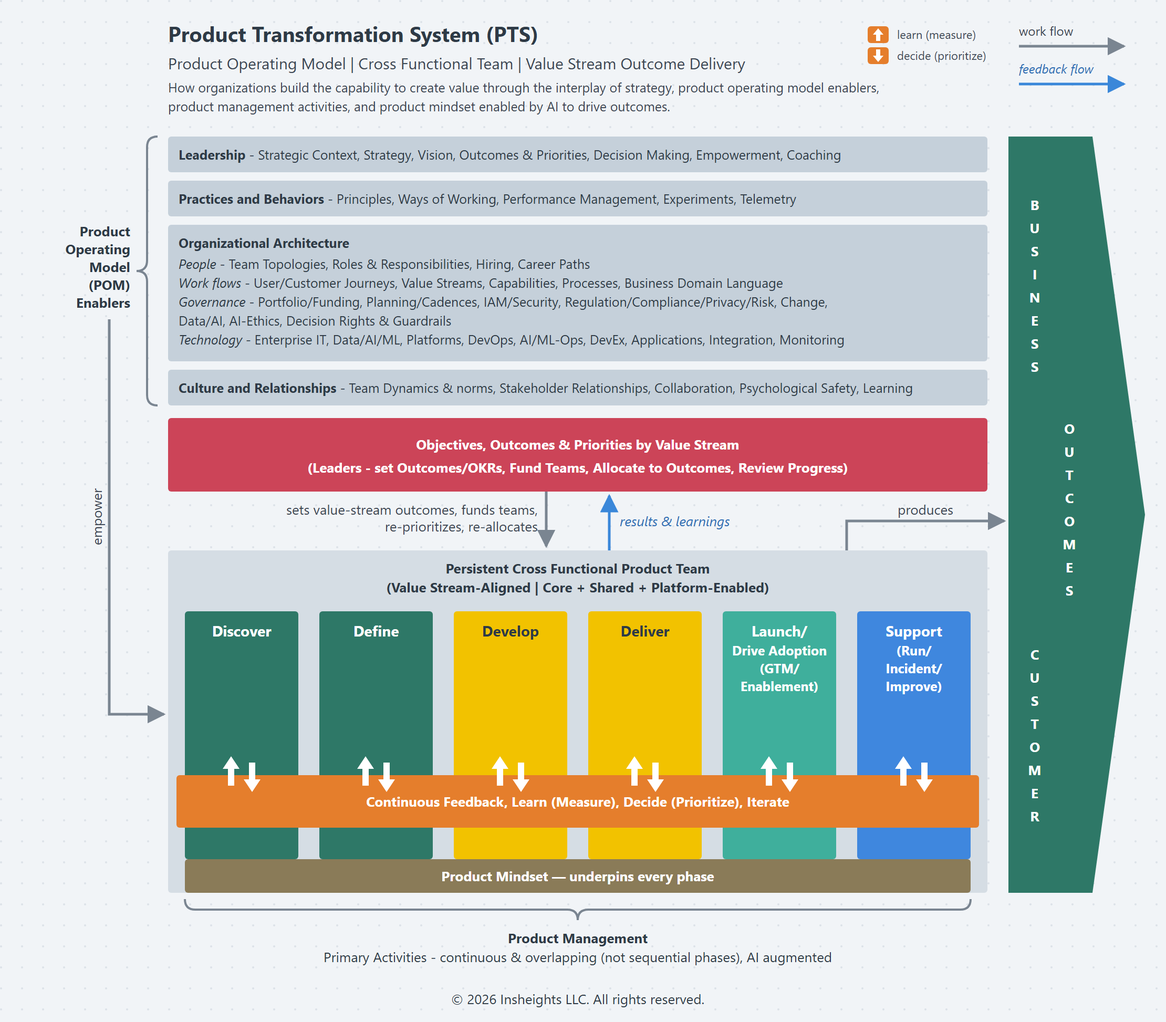
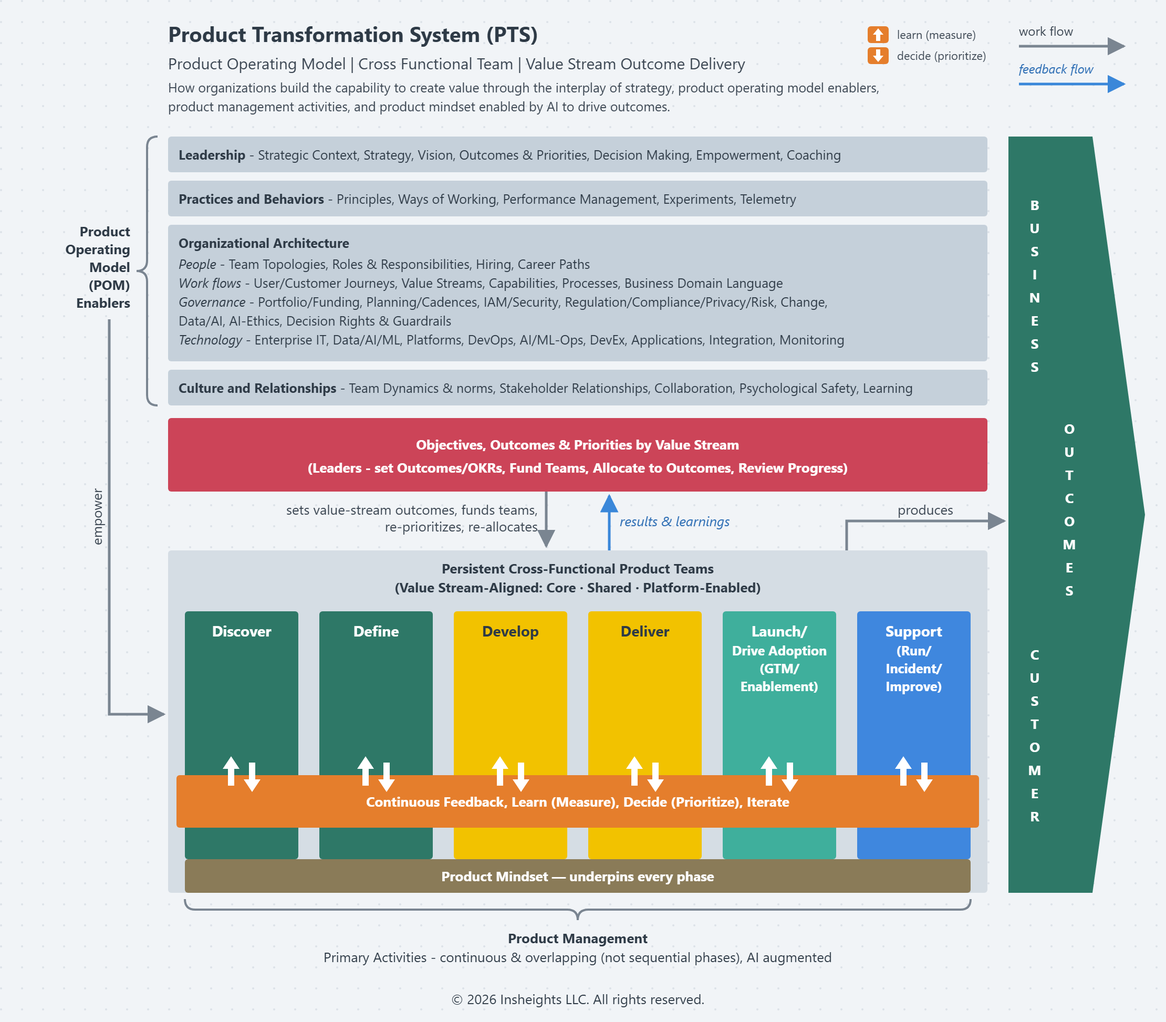
Redefine value stream, value stage, capability and process (FW-Q5)
A value stream was defined as "the pre-existing business workflows and
capabilities", which merged three different elements and left OSM no
way to call for a value stream the organization does not have yet.

- Glossary: new definitions of Value Stream, Value Stage, Capability and
  Process; new entries for the capability map, the value-stream
  charter, the Core, Shared and Platform-Enabled teams, and owned and
  consumed capabilities. Value propositions are made to a stakeholder.
- OSM: holds the value-stream inventory and capability map; Step 4 may
  create or reshape a value stream through a charter, and decides
  whether missing capabilities are built, bought or partner-sourced;
  Step 6 decides changes to the map.
- PTS: builds chartered streams; Step 3 defines the three team types
  and records owned and consumed capabilities on the map.
- CVDM: a stage may serve several journey steps, or serve an internal
  stakeholder; capabilities are selected from the map, and gaps go to
  OSM.
- Integration: Team Topologies credited as prior art with a mapping;
  the Lean sense of "value stream" distinguished; ITIL practices are
  processes that carry out capabilities.
- PTS diagram: "Persistent Cross-Functional Product Teams (Value
  Stream-Aligned: Core · Shared · Platform-Enabled)"; PNG re-exported.

diff --git a/guides/osm-practitioners-guide.md b/guides/osm-practitioners-guide.md
@@ -34,7 +34,7 @@
 - [ ] **Stakeholder & customer expectations** — what customers, the board, regulators, and employees expect the organization to deliver. This is the customer-obsession input to strategy.
 - [ ] **Leadership direction** — the executive and board view on where the organization must place its bets.
 - [ ] **Enterprise risk and risk appetite** — the risks (ERM) that constrain which strategies are realistic, and the appetite that bounds how much exposure a strategy may carry.
-- [ ] **A current value-stream inventory** — the pre-existing business workflows and capabilities through which value is created. Strategy is governed *through* value streams, so you must know what they are.
+- [ ] **A current value-stream inventory and capability map** — the value streams through which the organization delivers outcomes its stakeholders value, and the single organization-wide map of its [capabilities](../glossary.md#architecture-elements). Strategy is governed *through* value streams, so you must know what they are. OSM holds both; if the organization already keeps a business-architecture capability map, adopt it rather than building a new one.
 - [ ] **In-flight commitments** — the initiatives, programs, and budget already committed. A strategy reset that ignores in-flight work leaves the old strategy running underneath the new one.
 - [ ] **Last cycle's Priority Register and decision log** (if the system is already running) — the assumptions that were being tested and what the loop concluded.
 
@@ -155,17 +155,19 @@ OSM runs at three levels (Organization → Enterprise/Function → Portfolio). R
 
 **Key question this step answers:** *Through which value streams will each priority be created, what must each produce, and what resources are committed to it?*
 
-**Inputs:** Ranked Priority Register (Step 3); value-stream inventory; in-flight commitment list; budget and capacity envelope
-**Output:** Priority-to-value-stream map; a defined value-stream outcome per affected value stream; committed budget and capacity per priority; an in-flight disposition list (continue / re-scope / stop); cascaded alignment across levels
+**Inputs:** Ranked Priority Register (Step 3); value-stream inventory and capability map; in-flight commitment list; budget and capacity envelope
+**Output:** Priority-to-value-stream map; a defined value-stream outcome per affected value stream; a **value-stream charter** for each new or reshaped value stream; the capability gaps per priority, each with a sourcing decision (build, buy, or partner); committed budget and capacity per priority; an in-flight disposition list (continue / re-scope / stop); cascaded alignment across levels
 
 **Guidance:**
 - The value-stream outcome is set by the business, not constituted by the sum of downstream delivery. OSM *defines* it; PTS owns its delivery; customer outcomes *evidence* it. Keep that distinction — it prevents strategy from being quietly redefined by whatever teams happen to deliver.
 - The value-stream outcome must measure the priority directly. If the priority is about revenue concentration, the outcome measures concentration — not a neighboring metric that is easier to move.
-- Every priority must land on at least one value stream with a named owner. A priority that maps to no value stream is either an intention with no path to execution — find the value stream or drop it — or not a priority at all but a statement about how the organization will govern, which belongs in Steps 5–6.
+- Every priority must land on at least one value stream with a named owner. A priority that maps to no value stream is either an intention with no path to execution — find, reshape, or create the value stream, or drop it — or not a priority at all but a statement about how the organization will govern, which belongs in Steps 5–6.
+- **Create or reshape a value stream only when no existing one can deliver the outcome.** Most value streams already exist. When a priority needs an outcome none of them delivers, write a **value-stream charter**: the stakeholder, the outcome, the owner, why no existing stream delivers it, and the build capacity committed. The new or reshaped stream rides on the priority that called for it — its build is a costed, owned line under that priority, not a separate entry in the Priority Register — and PTS builds it. If several priorities need the same new stream, it is funded under the highest-ranked of them. Once built, it is a standing value stream like any other, and PTS funds its teams as persistent value-stream teams. Creating a stream is decided at the organization level; it is not cascaded locally.
+- **Name the capability gaps and decide their sourcing.** For each priority, check the capability map for what its value streams need. Where a capability is missing, decide here whether it is built, bought, or sourced from a partner — a how-to-win choice that commits resources — and record it as a costed line under the priority. A heavy reliance on partners belongs in the risk read of Step 1.
 - **Resources follow the ranking.** Finance and the Portfolio level commit budget and capacity in rank order. If the third priority is funded more heavily than the first, the funding is the real ranking. A priority without committed resources is not committed — fund it or remove it from the register.
 - **Reconcile in-flight work.** Every in-flight initiative is dispositioned against the new register: continue (serves a priority), re-scope (partly serves one), or stop (serves none, or sits in won't-play). Stopped work releases the capacity that funds the new priorities.
 - **Cascade without re-litigating — and resolve conflicts by the ranking.** Each lower level aligns *to* the level above; it does not reopen organization-level choices. When two priorities compete for the same value stream or capacity at a lower level, the ranking decides. Resolve conflicts at the lowest level that owns both claims; escalate only what the ranking cannot settle, and escalate as an executability signal (Step 6), not as a quiet local override. Existing forums — portfolio boards, Lean Portfolio Management, investment committees — are where this runs.
-- You are done when every committed priority traces to a value stream with an owner and funded capacity, every affected value stream has a stated outcome that measures its priority, in-flight work is dispositioned, and the cascade is consistent top to bottom.
+- You are done when every committed priority traces to a value stream with an owner and funded capacity, every affected value stream has a stated outcome that measures its priority, every new or reshaped stream has a charter and funded build capacity, every capability gap has a sourcing decision, in-flight work is dispositioned, and the cascade is consistent top to bottom.
 
 ---
 
@@ -212,6 +214,7 @@ OSM runs at three levels (Organization → Enterprise/Function → Portfolio). R
 - **Set at minimum three kinds of out-of-cycle trigger.** An **executability signal** from PTS (a value-stream outcome the operating model cannot carry, or a cascade conflict the ranking cannot settle); a **customer-reality signal** from CVDM (strategic signals that refute a written assumption); and a **risk signal** from ERM (exposure moving outside appetite). Each should be tied to a specific assumption or risk in the Priority Register — a trigger that tests nothing in particular will never fire.
 - **Decide with a fixed set of options.** For each priority, the decision forum chooses one: **persist** (signal on path), **retune** (change the outcome target, the value stream, or the how-to-win within the same choice), **re-resource** (move capacity toward or away from it), or **stop** (retire the priority; its resources return to the ranking). When a core assumption behind the Kernel itself is refuted, the decision is to reopen Step 2 out of cycle.
 - **Decisions that change risk exposure need the risk owner.** Slowing a priority that mitigates a named risk extends that exposure. The risk owner accepts or rejects it, and the acceptance is recorded.
+- **Decide changes to the capability map.** PTS and CVDM propose capabilities the map is missing, and duplicates they find; OSM decides them at the decision forum, so the map stays one organization-wide list rather than one per team or value stream.
 - **Keep the decision log.** Record every decision with the signal behind it, the rationale, and who accepted the risk. The log is how the loop learns across cycles, and how next year's reset knows which assumptions were tested and what they showed.
 - Name who acts, not just who receives. The CEO/executive team owns acting on the reconciled signal. If reconciliation lands in a report no one is accountable for acting on, the loop is decorative.
 - Strategy is a living hypothesis. A governance cadence that only reports status, never revises priorities or resources, is not OSM.

diff --git a/integration.md b/integration.md
@@ -1,6 +1,6 @@
 # IIVCS Integration with Existing Practices
 
-**SAFe | Scrum | [Objectives and Key Results (OKRs)](glossary.md#external-frameworks-referenced) | ITIL | ERM | Design Thinking | Value Stream Mapping | Jobs To Be Done**
+**SAFe | Scrum | Team Topologies | [Objectives and Key Results (OKRs)](glossary.md#external-frameworks-referenced) | ITIL | ERM | Design Thinking | Value Stream Mapping | Jobs To Be Done**
 
 How the Insheights Integrated Value Creation System connects to and integrates with existing organizational practices, methods, and frameworks — rather than replacing them.
 
@@ -48,7 +48,7 @@ SAFe provides the delivery execution structure — Agile Release Trains, PI Plan
 
 - **Portfolio → OSM:** SAFe's Portfolio layer (Strategic Themes, Lean Portfolio Management) maps to OSM's strategic value priorities and value stream allocation. OSM sets the value priorities that SAFe's portfolio layer executes against. Strategic themes become the bridge between OSM's Strategic Objectives and SAFe's portfolio investment decisions.
 - **ART structure → PTS:** SAFe's Agile Release Trains are the team structures PTS's operating model organizes around. PTS's four [Product Operating Model (POM)](glossary.md#core-system-and-frameworks) Enablers (Leadership, Practices & Behaviors, Organizational Architecture, Culture & Relationships) are the conditions that make SAFe ARTs effective — or identify why they are not.
-- **PI Objectives → CVDM:** SAFe's Program Increment Objectives become the delivery commitments that CVDM's value stream stages and capabilities must deliver against. CVDM's 3E measurement makes visible whether PI execution is producing customer outcomes, not just shipped features.
+- **PI Objectives → CVDM:** SAFe's Program Increment Objectives become the delivery commitments that CVDM's value stages and capabilities must deliver against. CVDM's 3E measurement makes visible whether PI execution is producing customer outcomes, not just shipped features.
 - **Flow metrics → 3E Efficiency:** SAFe's flow metrics (Flow Velocity, Flow Time, Flow Efficiency, Flow Load) are Efficiency signals in 3E terms. They measure whether value can be accessed without friction at the delivery level. 3E connects these signals forward to Experience and Effectiveness — dimensions SAFe's native metrics do not capture.
 
 **What IIVCS adds that SAFe does not provide:** A customer journey anchor that is structural (not just practiced). A measurement architecture that connects flow performance to customer outcomes and organizational value. A feedback architecture that returns PI-level delivery signal to strategic reassessment in OSM.
@@ -70,6 +70,27 @@ Scrum provides the team-level delivery ceremonies and practices — Sprint Plann
 
 ---
 
+### Team Topologies
+
+Team Topologies, by Matthew Skelton and Manuel Pais, is prior art for how PTS organizes teams. It defines four fundamental team types — stream-aligned, platform, enabling, and complicated-subsystem — and modes by which teams interact, including one team providing a capability "as a service" that another consumes.
+
+**Where Team Topologies connects into IIVCS:**
+
+PTS uses its own team vocabulary — Core, Shared, and Platform-Enabled teams, all aligned to value streams ([Glossary](glossary.md#key-concepts)) — and maps to Team Topologies as follows:
+
+| PTS team | Closest Team Topologies type | Difference |
+|---|---|---|
+| **Core** | Stream-aligned | A Team Topologies stream-aligned team follows a flow of work; a PTS Core team is aligned to one IIVCS value stream and accountable for its outcome |
+| **Shared** | No exact equivalent | Owns a business capability several value streams draw on, served to their Core teams on agreed terms |
+| **Platform-Enabled** | Platform | Owns a technology capability offered as a self-service internal product |
+| — | Enabling, complicated-subsystem | PTS defines no separate type for these; where an organization runs them, they sit alongside the three PTS types |
+
+- **Consuming as a service → owned / consumed capabilities:** Team Topologies' provide-and-consume interaction is how PTS reads a consumed capability: the consuming team draws on it without a hand-off, and one owning team stays accountable for it.
+
+**What IIVCS adds:** Teams anchored to value streams that OSM governs and CVDM realizes, an organization-wide capability map on which every capability has one owning team, and measurement (Organizational AER) of whether the team model is adopted and sustained.
+
+---
+
 ### OKRs (Objectives and Key Results)
 
 OKRs are the strategic execution practice through which OSM's Strategic Objectives are expressed, tracked, and evaluated.
@@ -87,11 +108,11 @@ OKRs are the strategic execution practice through which OSM's Strategic Objectiv
 
 ### ITIL (IT Infrastructure Library)
 
-ITIL's service management processes — Incident Management, Problem Management, Change Management, Service Continuity, and the rest — operate within CVDM's Support phase as Capability and Process elements.
+ITIL's service management practices — Incident Management, Problem Management, Change Management, Service Continuity, and the rest — operate within CVDM's Support phase as the Processes that carry out CVDM Capabilities.
 
 **Where ITIL connects into IIVCS:**
 
-- **Service Management → CVDM Capabilities:** ITIL capabilities (Service Desk, Incident Management, Change Management) are CVDM Capabilities at the Support stage of the customer journey. CVDM defines why these capabilities exist (to deliver a value stage in the customer journey); ITIL defines how they operate.
+- **Service Management → CVDM Capabilities and Processes:** ITIL practices (Service Desk, Incident Management, Change Management) are the Processes that carry out CVDM Capabilities at the Support stage of the customer journey — the capability is what the organization can do (restore service, for example); the ITIL practice is how it is done. CVDM defines why these capabilities exist (to deliver a value stage in the customer journey); ITIL defines how they operate.
 - **Incident and Problem Management → 3E Efficiency:** Incidents and problems are Efficiency failures — they interrupt the customer's ability to use value. ITIL's resolution metrics (MTTR, first-contact resolution) are Efficiency signals in 3E terms.
 - **Service Level Agreements → 3E thresholds:** SLA targets define the acceptable Efficiency floor for service delivery. Breaches are CVDM feedback loop triggers — signals that a capability is not meeting the value delivery threshold.
 - **Continual Service Improvement → CVDM Performance Optimization loop:** ITIL's Continual Service Improvement cycle is the execution mechanism for CVDM's fourth feedback loop (Performance Optimization). CSI provides the improvement methodology; CVDM's feedback loop defines what signal triggers it and where the output goes.
@@ -131,6 +152,8 @@ Design Thinking practices — Empathize, Define, Ideate, Prototype, Test — are
 ### Value Stream Mapping
 
 Value Stream Mapping is a diagnostic tool used within PTS and CVDM to analyze flow efficiency and identify waste in specific value streams.
+
+A note on terms: in Lean, a "value stream" is the process flow — every step needed to produce a product or service — and VSM maps that flow. In IIVCS, a [value stream](glossary.md#architecture-elements) is the chain of value stages that delivers an outcome to a stakeholder; the process flow VSM analyzes is the Processes that carry out a value stage's capabilities.
 
 **Where VSM connects into IIVCS:**
 
@@ -177,6 +200,7 @@ JTBD research is a demand insight method that informs OSM's strategic value crea
 |---|---|---|
 | SAFe | ART structure and PI Planning | Team structures, delivery ceremonies, and portfolio management practices |
 | Scrum / Kanban | Team delivery practices | Sprint ceremonies, flow management, and team-level velocity |
+| Team Topologies | Team types and team interactions | Prior art for PTS's Core, Shared, and Platform-Enabled teams and for consuming a capability as a service |
 | Design Thinking | Discover phase | Customer empathy research and iterative prototyping methods |
 | Jobs To Be Done | Discover phase | Outcome research that keeps teams grounded in what customers are trying to achieve across all delivery phases |
 | Value Stream Mapping | Operating model analysis | Point-in-time Efficiency diagnostics for value stream improvement |

diff --git a/glossary.md b/glossary.md
@@ -11,7 +11,7 @@ Definitions for the terms, acronyms, and external frameworks referenced across t
 | **IIVCS** | **Insheights Integrated Value Creation System** — the integrated system of organizational and product frameworks ([Organization Strategy Model (OSM)](README.md#osm--organization-strategy-model), [Product Transformation System (PTS)](README.md#pts--product-transformation-system), [Customer Value Delivery Model (CVDM)](README.md#cvdm--customer-value-delivery-model)) and measurement models ([Efficiency, Experience, Effectiveness (3E)](3e.md), [Adoption, Engagement, Retention (AER)](aer.md), 8 Values) through which an organization defines, builds, and delivers value. |
 | **OSM** | **Organization Strategy Model** — how organizations translate strategic intent into prioritized value creation outcomes, connecting Values, Mission, and Vision through Strategic Value Creation to execution by value stream. |
 | **PTS** | **Product Transformation System** — how organizations create value through the interplay of strategy, the product operating model, product management activities, and Product Mindset, enabled by AI. |
-| **CVDM** | **Customer Value Delivery Model** — how every customer/user journey step triggers the right value stream stage to deliver the value proposition as a realized customer outcome, with five continuous feedback loops. |
+| **CVDM** | **Customer Value Delivery Model** — how every customer/user journey step triggers the right value stage to deliver the value proposition as a realized customer outcome, with five continuous feedback loops. |
 | **POM** | **Product Operating Model** — the operating model PTS stands up: four POM Enablers (Leadership; Practices & Behaviors; Organizational Architecture; Culture & Relationships) that empower persistent cross-functional teams. |
 | **Product Mindset** | The operating philosophy of the IIVCS — five principles: customer obsession, outcome over output, continuous discovery, hypothesis-driven thinking, cross-functional ownership. |
 
@@ -39,12 +39,13 @@ The named layers 3E measures and CVDM activates, from broadest to most granular.
 
 | Term | Definition |
 |---|---|
-| **Value Stream** | The pre-existing business workflows and capabilities through which value is created and delivered — the common organizing spine across OSM, PTS, and CVDM. |
-| **Value Stage** | A stage within a value stream, triggered by a customer journey step, that contributes to the customer outcome. |
-| **Capability** | An organizational ability that activates within a value stage to contribute to its outcome. |
-| **Process** | The repeatable execution that produces a consistent outcome within a capability or stage. |
+| **Value Stream** | The chain of value stages through which the organization delivers an outcome its stakeholder values: usually a customer, sometimes an internal user. It starts when that stakeholder asks for or needs the outcome, and ends when they have it. Value streams are the common organizing spine across OSM, PTS, and CVDM. Most already exist; when a strategy needs an outcome none of them delivers, OSM may create or reshape one, and PTS builds it. |
+| **Value Stage** | A step in a value stream, with a clear start and finish, that leaves its stakeholder measurably closer to the stream's outcome. When the stakeholder is a customer, each stage serves one or more customer-journey steps. |
+| **Capability** | Something the organization can do, named for what it achieves, not who does it or how. Named once on the organization-wide capability map, it can enable value stages in any value stream. |
+| **Capability Map** | The single, organization-wide list of the organization's capabilities. OSM holds it alongside the value-stream inventory, adopting an existing business-architecture map where the organization has one; PTS records which team owns each capability and which teams consume it; CVDM selects from it for each value stage. Capabilities sourced from a partner are on the map too, marked as partner-sourced. |
+| **Process** | The repeatable sequence of activities that carries out a capability's work within a value stage. |
 | **Product / Service** | The delivered offering through which customers access and use value. |
-| **Value Proposition** | What a value stream promises to deliver to the customer, realized as a customer outcome. |
+| **Value Proposition** | What a value stream promises to deliver to its stakeholder, realized as that stakeholder's outcome. |
 
 ---
 
@@ -58,6 +59,11 @@ The named layers 3E measures and CVDM activates, from broadest to most granular.
 | **Elements of Value** | Bain & Company's research taxonomy — 30 B2C and 40 B2B elements of what customers value. 3E maps to all 70. |
 | **Value priority** | A strategic objective set in OSM, stated as an outcome (not an activity or deliverable), ranked against the others, and resting on written assumptions. |
 | **Value-stream outcome** | The business intent a value stream exists to produce, defined by OSM, delivered through PTS, and evidenced by customer outcomes. It is not simply the sum of what teams deliver. |
+| **Value-stream charter** | The record OSM makes when it creates or reshapes a value stream: the stakeholder, the outcome, the owner, why no existing stream delivers it, and the build capacity committed under the priority that called for it. |
+| **Core team** | A persistent cross-functional team aligned to one value stream. It owns the capabilities only that stream's stages use, consumes the rest, and is accountable for the stream's outcome end to end. |
+| **Shared team** | A persistent team that owns a capability value stages in several value streams draw on. It serves those streams' Core teams on agreed terms and is judged on their outcomes. |
+| **Platform-Enabled team** | A persistent team that owns a technology capability, such as a platform, data and AI, integration or developer tooling, and offers it as a self-service internal product, so other teams consume it without hand-offs. |
+| **Owned / consumed capability** | Each capability on the capability map has one owning team; every other team that draws on it consumes it. A partner-sourced capability is always consumed, with one internal team accountable for the partner: the team that would own it if it were built in-house. |
 | **Diagnosis (crux)** | The one or two critical challenges a strategy must overcome, and why they are hard. A diagnosis names the obstacle; a context description only describes the situation. |
 | **Strategic choices** | The explicit OSM decisions about where to play, where not to play, and how to win. |
 | **How to win / theory of change** | Why the chosen customers will choose the organization over the alternatives, and the hard-to-copy advantage that makes this deliverable. In non-competitive contexts, the theory of change: why this approach will produce the outcome when past efforts did not. |

diff --git a/guides/cvdm-practitioners-guide.md b/guides/cvdm-practitioners-guide.md
@@ -8,7 +8,7 @@
 
 | | |
 |---|---|
-| **What it does** | Maps each customer journey step to the value-stream stage that serves it, defines the capabilities, processes, products/services, and information concepts (and their flows) that deliver the value proposition as a realized customer outcome, and surfaces signal through five continuous feedback loops |
+| **What it does** | Maps each customer journey step to the value stage that serves it, defines the capabilities, processes, products/services, and information concepts (and their flows) that deliver the value proposition as a realized customer outcome, and surfaces signal through five continuous feedback loops |
 | **When to use it** | Designing or fixing how value reaches the customer; when delivery produces activity but not outcomes; when the journey and the value stream are not connected; when customer signal is not feeding back upstream |
 | **Who runs it** | The persistent cross-functional product team (built in [Product Transformation System (PTS)](../README.md#pts--product-transformation-system)); the value-stream / journey owner |
 | **Who must be in the room** | Customer-facing team members, delivery/operations members, the value-stream owner, and someone who owns each capability the journey depends on |
@@ -60,17 +60,18 @@ Each step below is an action. Complete them in order — later steps depend on e
 
 ### Step 1 — Map the customer journey to the value stream
 
-**What you do:** Lay out the customer journey step by step, from the customer's perspective. For each journey step, identify the value-stream stage that serves it. Every journey step must trigger the right value stage — that mapping is the spine of CVDM.
+**What you do:** Lay out the customer journey step by step, from the customer's perspective. For each journey step, identify the value stage that serves it. Every journey step must trigger the right value stage — that mapping is the spine of CVDM.
 
-**Key question this step answers:** *What does the customer actually do, and which value-stream stage serves each step?*
+**Key question this step answers:** *What does the customer actually do, and which value stage serves each step?*
 
 **Inputs:** The customer journey; the value stream and its outcome
 **Output:** A journey-to-value-stream map — each journey step paired with the value stage that serves it
 
 **Guidance:**
 - Map the journey as the customer experiences it, not as the organization processes it. "Decides whether to trust us with their data" is a journey step; "completes KYC workflow" is the internal process that serves it.
-- Every journey step must map to a value stage. A journey step with no value stage serving it is a gap where the customer is on their own — flag it. A value stage serving no journey step is internal activity creating no customer value — question it.
-- You are done when every customer journey step is paired with the value stage that serves it, with no orphaned steps or stages.
+- Every journey step must map to a value stage. A journey step with no value stage serving it is a gap where the customer is on their own — flag it.
+- One value stage may serve several journey steps. A value stage that serves no customer journey step is not automatically waste: it may be work behind the scenes that a later customer-facing stage depends on, or part of a value stream whose stakeholder is an internal user rather than a customer. Question it only if it serves neither.
+- You are done when every customer journey step is paired with the value stage that serves it, and every value stage either serves a journey step or is justified as behind-the-scenes or internal-stakeholder work.
 
 ---
 
@@ -93,17 +94,18 @@ Each step below is an action. Complete them in order — later steps depend on e
 
 ### Step 3 — Operationalize capabilities, processes, products/services, and information concepts
 
-**What you do:** For each value stage, define what is required to deliver it: the Products/Services the customer interacts with, the Capabilities the team must hold, the Processes that execute, and the Information concepts, and the flows that feed them to capabilities. This is where the value stage becomes operational.
+**What you do:** For each value stage, define what is required to deliver it: the Products/Services the customer interacts with, the Capabilities it draws on from the organization's capability map, the Processes that execute, and the Information concepts, and the flows that feed them to capabilities. This is where the value stage becomes operational.
 
 **Key question this step answers:** *What must exist and execute for each value stage to deliver its outcome?*
 
-**Inputs:** Defined value stages (Step 2); capabilities supplied by PTS
+**Inputs:** Defined value stages (Step 2); capabilities from the organization's capability map, with owning and consuming teams recorded by PTS
 **Output:** An operational definition per value stage — products/services, capabilities, processes, and information concepts with their flows
 
 **Guidance:**
 - Work down the architecture: Value Stage → Capability → Process → Product/Service, with Information concepts feeding the capabilities. Each value stage is delivered by capabilities, which run processes, which the customer meets as products/services.
 - Information flows are not an afterthought. A value stage fails most often not because a capability is missing, but because information does not flow between capabilities at the moment the customer needs it.
-- Cross-functional ownership applies here: the team owns the full chain for the value stage, not a single process with handoffs to other teams. If delivering a value stage requires a handoff outside the team, revisit the PTS team topology.
+- **Select capabilities from the map; do not invent them locally.** If a value stage needs a capability the map does not have, propose it to OSM, which decides it; PTS then gives it an owning team. A capability sourced from a partner is selected like any other, and its accountable internal team is named here.
+- Cross-functional ownership applies here: the team owns the full chain for the value stage, not a single process with handoffs to other teams. Consuming a capability owned by a Shared or Platform-Enabled team, on agreed terms or as self-service, is not a handoff. If delivering a value stage needs an ad-hoc handoff outside the team, revisit the PTS team topology.
 - You are done when each value stage has its capabilities, processes, products/services, and information concepts and their flows named and owned.
 
 ---

diff --git a/guides/pts-practitioners-guide.md b/guides/pts-practitioners-guide.md
@@ -29,7 +29,7 @@
 **Inputs required**
 
 - [ ] **Governed value-stream outcomes from OSM** — the business intent each value stream exists to produce, with owners. PTS builds the operating model to deliver these; without them, you are restructuring teams with no outcome to anchor on.
-- [ ] **Value-stream inventory** — the pre-existing workflows and capabilities through which value is created. Teams are organized around these, not around functions.
+- [ ] **Value-stream inventory and capability map from OSM** — the value streams teams are organized around (not functions), any new or reshaped stream OSM has chartered for PTS to build, and the organization-wide [capability map](../glossary.md#architecture-elements) PTS records ownership on.
 - [ ] **Current org and team structure** — how people, reporting lines, and capabilities are arranged today, so you can see the gap to a value-stream topology.
 - [ ] **Product Mindset maturity reading** — the organization's readiness to operate with customer obsession, outcome focus, continuous discovery, hypothesis-driven thinking, and cross-functional ownership.
 - [ ] **A change & communication capacity** — PTS changes how people work; the Launch phase and adoption depend on a real change function, not an announcement.
@@ -64,10 +64,11 @@ Each step below is an action. Complete them in order — later steps depend on e
 
 **Key question this step answers:** *Which value-stream outcomes must this operating model deliver, and can we realistically carry them?*
 
-**Inputs:** OSM governed value-stream outcomes; value-stream inventory
-**Output:** Confirmed value-stream-to-outcome map with owners; an initial executability signal to OSM
+**Inputs:** OSM governed value-stream outcomes; value-stream inventory and capability map; value-stream charters for new or reshaped streams
+**Output:** Confirmed value-stream-to-outcome map with owners; a build plan for each chartered new or reshaped stream; an initial executability signal to OSM
 
 **Guidance:**
+- **Build what OSM charters.** When OSM creates or reshapes a value stream, its charter names the stakeholder, the outcome, the owner, and the build capacity committed under the priority that called for it. PTS plans and builds the stream's stages and teams within that capacity; once built, it runs as a standing value stream with persistent teams like any other. A build that cannot be carried within its committed capacity is an executability signal to OSM.
 - PTS owns the *delivery* of the value-stream outcome; it does not redefine it. Customer outcomes (owned by product teams via CVDM) *evidence* the value-stream outcome — they do not constitute it. Hold that line.
 - Surface executability honestly and early. A value-stream outcome OSM can articulate but PTS cannot carry is a measurable failure — and OSM needs that signal now, not after a year of trying.
 - You are done when every priority maps to a value stream with a named owner and a restated outcome, and OSM has received the executability read.
@@ -105,14 +106,23 @@ Each step below is an action. Complete them in order — later steps depend on e
 
 **Key question this step answers:** *Who owns each value stream end-to-end, and do they have what they need to deliver without handoffs?*
 
-**Inputs:** Activated POM (Step 2); value-stream-to-outcome map
-**Output:** A value-stream team topology — persistent teams, ownership boundaries, capability composition
+**Inputs:** Activated POM (Step 2); value-stream-to-outcome map; capability map (from OSM)
+**Output:** A value-stream team topology — persistent teams by type, ownership boundaries, and for each team the capabilities it owns and the capabilities it consumes
 
 **Guidance:**
 - Persistent, not project. Teams form around value streams and stay; they are not assembled and disbanded per initiative. Persistence is what lets ownership, learning, and customer knowledge compound.
-- Each team must hold the capabilities to deliver end-to-end. If delivering an outcome requires a handoff to another team, either the team is missing a capability or the value-stream boundary is wrong — fix the topology, don't add a handoff.
+- **Use three kinds of team, all aligned to value streams:**
+
+  | Team | What it is | Aligned to |
+  |---|---|---|
+  | **Core** | A persistent cross-functional team aligned to one value stream. It owns the capabilities only that stream's stages use, consumes the rest, and is accountable for the stream's outcome end to end. | One value stream |
+  | **Shared** | A persistent team that owns a capability value stages in several value streams draw on. It serves those streams' Core teams on agreed terms and is judged on their outcomes. | The value streams that draw on its capability |
+  | **Platform-Enabled** | A persistent team that owns a technology capability, such as a platform, data and AI, integration or developer tooling, and offers it as a self-service internal product, so other teams consume it without hand-offs. | Every value stream that consumes it |
+
+- **Record owned and consumed capabilities on the capability map.** Every capability has exactly one owning team; every other team that draws on it consumes it. A capability sourced from a partner is always consumed, with one internal team accountable for the partner, the integration, and the service level: the team that would own it if it were built in-house. A capability the map is missing, or a duplicate, goes back to OSM to decide; PTS does not add it locally.
+- Each Core team must own or consume the capabilities to deliver end-to-end. Consuming a capability from a Shared or Platform-Enabled team, on agreed terms or as self-service, is not a handoff. If delivering an outcome needs an ad-hoc handoff to another team, either a capability is missing or the value-stream boundary is wrong — fix the topology, don't add a handoff.
 - The team owns the **customer outcomes** that evidence the value-stream outcome; the value-stream owner owns the value-stream outcome itself. Make both explicit so accountability does not blur.
-- You are done when every value stream has a persistent team with clear ownership and the capability composition to deliver without depending on hand-offs.
+- You are done when every value stream has a persistent Core team with clear ownership, every capability on the map has one owning team, each team's owned and consumed capabilities are recorded, and no value stage depends on an ad-hoc hand-off.
 
 ---
 

diff --git a/README.md b/README.md
@@ -53,7 +53,7 @@ OSM both formulates and governs strategy. Strategic Value Creation **diagnoses**
 
 The organization approaches Strategic Value Creation with a Product Mindset — strategies are living hypotheses, continuously tested and refined as execution generates signal. Strategy inputs are never static: market shifts, stakeholder expectations, and delivery outcomes continuously feed back into strategic reassessment. Product Mindset maturity — the organization's readiness to operate this way — is an internal context factor that shapes which strategies are realistic and executable.
 
-Value Streams — the pre-existing business workflows and capabilities through which value is created and delivered — are the organizing unit of execution across OSM, PTS, and CVDM.
+Value Streams — the chains of value stages through which the organization delivers an outcome its stakeholder values — are the common organizing spine across OSM, PTS, and CVDM. Most already exist; when a strategy needs an outcome none of them delivers, OSM may create or reshape one. See the [Glossary](glossary.md#architecture-elements) for value stream, value stage, capability, and process.
 
 Values, Mission, and Vision are enduring: no feedback loop revisits them. The loops refine the value priorities and how they are executed, not the organization's purpose.
 
@@ -112,7 +112,7 @@ Each Product Mindset principle has a direct role in PTS:
 
 **Customer Journey | Value Stream | Value Delivery**
 
-CVDM ensures every Customer/User journey step triggers the right Value Stream stage — defining the Products/Services, Capabilities, Processes, and Information concepts (and their flows) required to deliver the Value Proposition as a realized customer outcome — with five continuous feedback loops covering experience feedback, journey insights, delivery learning, performance optimization, and strategic signals.
+CVDM ensures every Customer/User journey step triggers the right Value Stage — defining the Products/Services, Capabilities, Processes, and Information concepts (and their flows) required to deliver the Value Proposition as a realized customer outcome — with five continuous feedback loops covering experience feedback, journey insights, delivery learning, performance optimization, and strategic signals.
 
 Product Mindset, carried into CVDM by empowered teams from PTS, is where it moves from philosophy to practice.
 
@@ -149,8 +149,8 @@ What distinguishes IIVCS from established Enterprise Architecture, product, and 
 
 ## Summary
 
-Value Streams — the pre-existing business workflows and capabilities 
-through which value is created and delivered — are the common spine 
+Value Streams — the chains of value stages through which the organization 
+delivers an outcome its stakeholder values — are the common spine 
 of the Insheights Integrated Value Creation System.
 
 OSM **governs** the value streams, PTS **operationalizes** them, and CVDM **realizes** value through them. What each framework owns, how they align up and down the system, and where behavioral signal is measured are set out in [Framework Positioning](positioning.md) — the canonical reference for how the three relate.

diff --git a/positioning.md b/positioning.md
@@ -51,7 +51,7 @@ PTS is where **organizational behavioral change is driven and measured**. As the
 ## CVDM — Customer Value Delivery Model
 *Positioning*
 
-CVDM is the delivery and realization layer of the IIVCS — the model through which value is realized as a customer outcome. It maps each customer journey step to the value-stream stage that serves it, defining the Products/Services, Capabilities, Processes, and Information concepts (and their flows) required to deliver the value proposition, and surfaces signal through five continuous feedback loops.
+CVDM is the delivery and realization layer of the IIVCS — the model through which value is realized as a customer outcome. It maps each customer journey step to the value stage that serves it, defining the Products/Services, Capabilities, Processes, and Information concepts (and their flows) required to deliver the value proposition, and surfaces signal through five continuous feedback loops.
 
 CVDM is the bottom of the execution stack, and its accountability runs in two directions:
 
